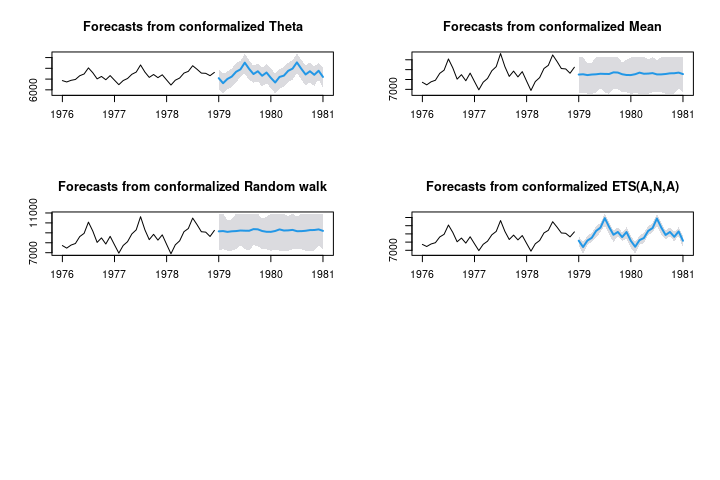
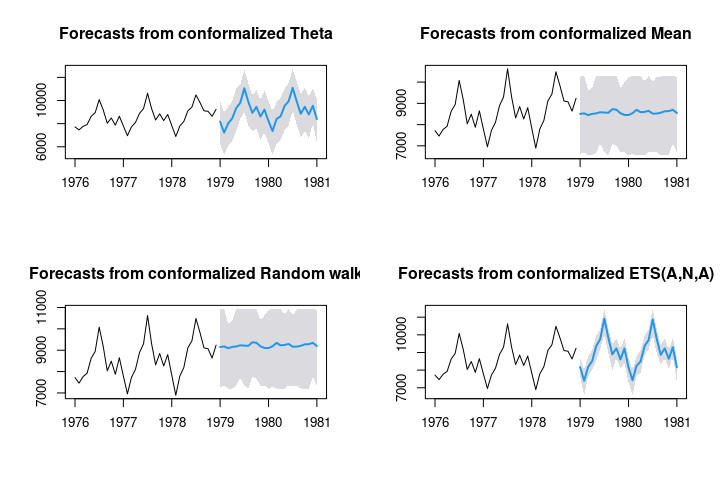
2024-11-23 fix figure

diff --git a/software/index.html b/software/index.html
@@ -102,8 +102,9 @@
 
         <h2>Packages | <a href="#top" onclick="scrollViewTop();return false;">Back</a></h2>
         <br />
+        <p style="color: darkgreen;">Today, <b>give a try to <a href="https://www.techtonique.net/">Techtonique web app</a></b>, a tool designed to help you make informed, data-driven decisions using Mathematics, Statistics, Machine Learning, and Data Visualization</p>
         <p>
-          You can visit this page for more details : <a href="https://github.com/Techtonique/">https://github.com/Techtonique/</a>
+          You can also visit this page: <a href="https://github.com/Techtonique/">https://github.com/Techtonique/</a>
         </p>
         </div>
     </div>

diff --git a/index.html b/index.html
@@ -124,6 +124,8 @@
               For more details about these tools, you can read <a href="blog/index.html">my blog</a>.
           </p>
 
+          <p style="color: darkgreen;">PS: <b>Give a try to <a href="https://www.techtonique.net/">Techtonique web app</a></b>, a tool designed to help you make informed, data-driven decisions using Mathematics, Statistics, Machine Learning, and Data Visualization</p>
+
         	</div>
       </div>
     </div>

diff --git a/_posts/2024-11-23-generic-conformal-forecast.md b/_posts/2024-11-23-generic-conformal-forecast.md
@@ -87,7 +87,7 @@ plot(ahead::genericforecast(FUN=forecast::rwf,
 ```{r}
 y <- USAccDeaths
 
-par(mfrow=c(3, 2))
+par(mfrow=c(2, 2))
 obj <- ahead::conformalize(FUN=forecast::thetaf, y, h); plot(obj)
 obj <- ahead::conformalize(FUN=forecast::meanf, y, h); plot(obj)
 obj <- ahead::conformalize(FUN=forecast::rwf, y, h); plot(obj)
@@ -114,7 +114,6 @@ obj <- ahead::conformalize(FUN=forecast::thetaf, y, h); plot(obj)
 obj <- ahead::conformalize(FUN=forecast::rwf, y=y, h=h, drift=TRUE); plot(obj)
 obj <- ahead::conformalize(FUN=HoltWinters, y=y, h=h, seasonal = "mult"); plot(obj)
 obj <- ahead::conformalize(FUN=ahead::dynrmf, y=y, h=h, fit_func=glmnet::cv.glmnet, predict_func=predict); plot(obj)
-
 ```
 
 ![xxx]({{base}}/images/2024-11-23/2024-11-23-image6.png){:class="img-responsive"}          
